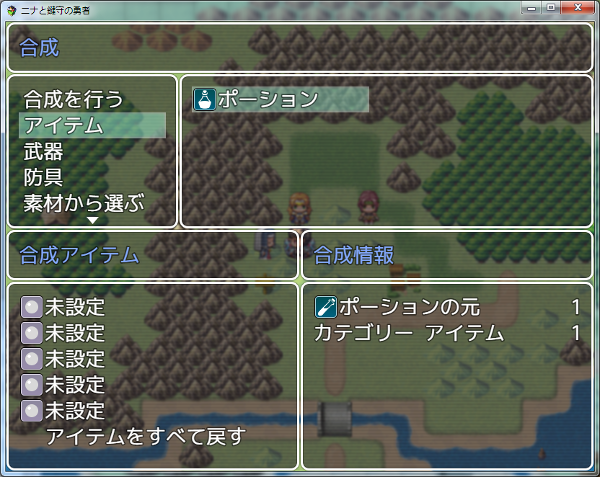
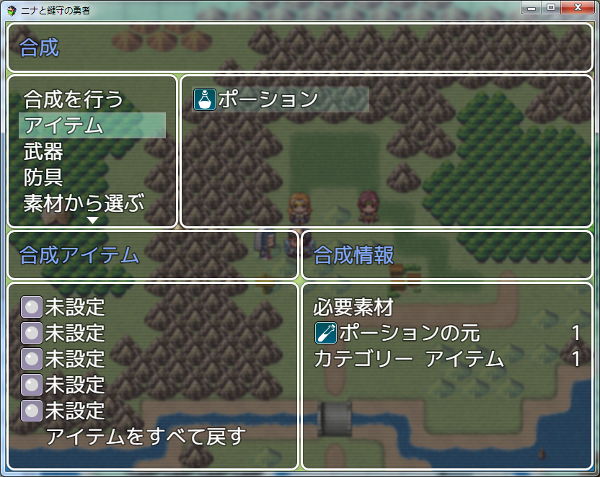
upload

Changed region(s): [[0.51, 0.6164, 0.84, 0.7925], [0.36, 0.1761, 0.63, 0.2348], [0.96, 0.7338, 0.99, 0.7631]]

diff --git a/FTKR_ItemCompositionSystem.js b/FTKR_ItemCompositionSystem.js
@@ -167,6 +167,10 @@ FTKR.ICS = FTKR.ICS || {};
  * 1 - 表示する, 0 - 表示しない
  * @default 1
  * 
+ * @param Recipe Title Format
+ * @desc 必要素材を表示する時のタイトル文字列を設定します。
+ * @default 必要素材
+ * 
  * @param --確認ウィンドウの設定(Confirmation Window)--
  * @default
  *
@@ -794,6 +798,7 @@ FTKR.ICS.status = {
     dispRecipe:Number(FTKR.ICS.parameters['Display Recipe Materials'] || 0),
     unkouwn:String(FTKR.ICS.parameters['Unkouwn Item Name'] || ''),
     number:String(FTKR.ICS.parameters['Composit Number Format'] || ''),
+    recipeTitle:String(FTKR.ICS.parameters['Recipe Title Format'] || ''),
 };
 
 //確認ウィンドウ設定
@@ -2112,7 +2117,10 @@ Window_IcsCompsiState.prototype.refresh = function() {
         this._comp = comp;
         this._number = number;
     } else if (FTKR.ICS.status.dispRecipe && this._showResipe && this._resipeItem) {
-        this.drawResipeMaterials(this._resipeItem, this._resipeTypeId, 0, 0);
+        this.drawTextEx(FTKR.ICS.status.recipeTitle, 0, 0);
+        this.resetTextColor();
+        var y = FTKR.ICS.status.recipeTitle ? this.lineHeight() : 0;
+        this.drawResipeMaterials(this._resipeItem, this._resipeTypeId, 0, y);
         this._comp = {};
         this._number = 0;
     } else {
